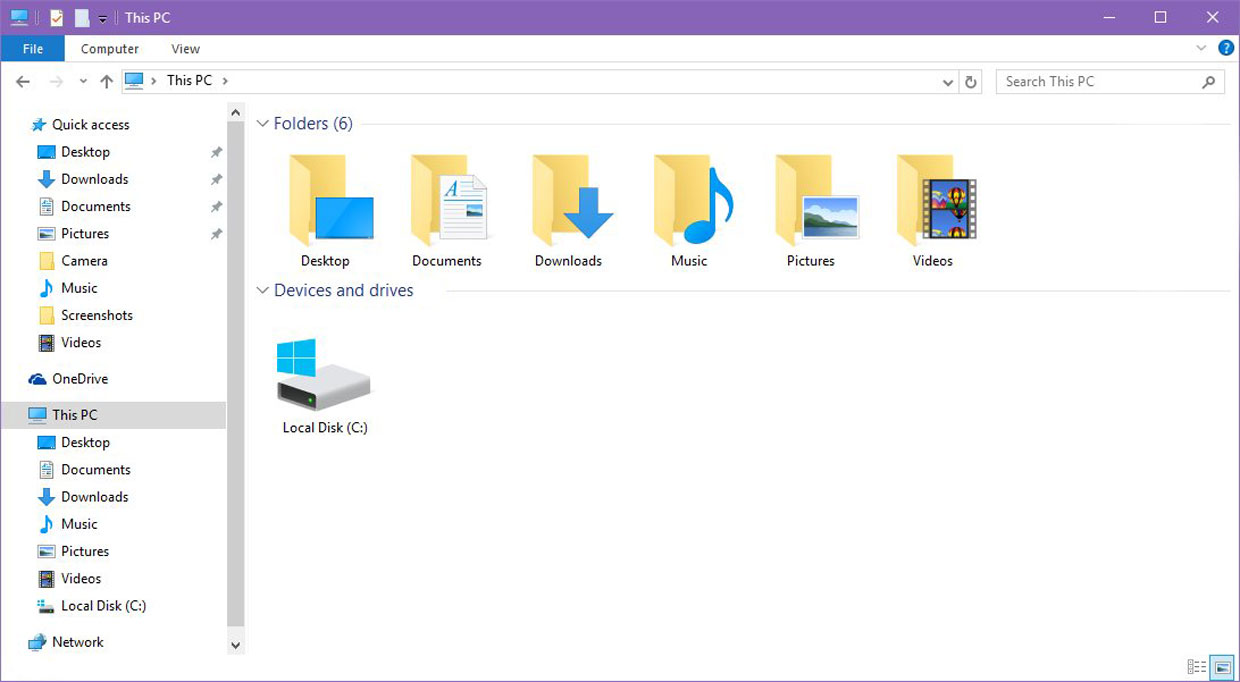
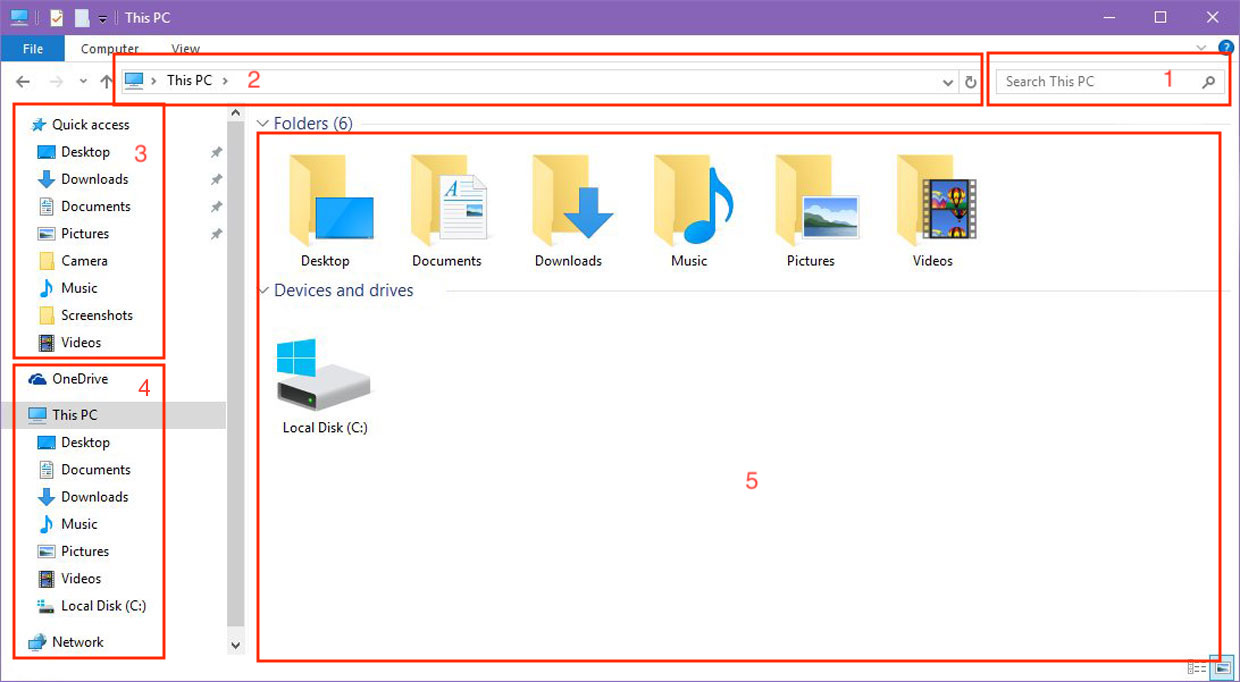
windows

diff --git a/windows/index.md b/windows/index.md
@@ -27,16 +27,20 @@ Pour prendre une capture d'écran, deux options s'offrent à vous :
 
 ### Manipulation de fichiers
 ![Icone explorateur de fichiers](/windows/icone_explorateur_fichiers.png)
-Les opérations décrites ici ne sont pas les plus courantes, mais elles constituent réellement la base de l'utilisation d'un ordinateur. À partir de l'explorateur de fichiers (image ci-haut), voici les principales opérations que vous pouvez faire.
+Les opérations décrites ici ne sont pas les plus courantes, mais elles constituent réellement la base de l'utilisation d'un ordinateur. À partir de l'explorateur de fichiers (image ci-haut), voici les principales opérations que vous pouvez faire. Les # font référence à l'image ci-dessous.
 1. Naviguer : 
-2. Rechercher : 
+  - #2 : Dossier actuel
+  - #3 : Favoris
+  - #4 : Arborescence complète de l'ordinateur
+  - #5 : Contenu du dossier actuel (ou résultats de la recherche)
+2. Rechercher : (voir #1 ci-dessous) Pour rechercher un fichier, une taille, une date, une extension tapez ce qui vous passe par la tête dans cette barre de recherche. 
 3. Créer : Pour créer un nouveau fichier dans l'explorateur de fichiers, ouvrez le menu contextuel dans un espace vide du dossier affiché.
 4. Supprimer : Pour supprimer un fichier, ouvrez le menu contextuel et cliquez sur "Supprimer" ou "Mettre dans la corbeil", selon le cas.
 5. Renommer : Pour renommer un fichier, ouvrez le menu contextuel et cliquez sur "Renommer"
 6. Déplacer : Pour déplacer un fichier, vous ouvrez le menu contextuel et cliquez sur "couper". Le fichier est maintenant dans le Presse-papier de Windows. Pour réellement le déplacer, déplacez-vous dans le dossier de votre choix, ouvrez le menu contextuel et cliquez sur "coller". Il disparaitra de son emplacement original.
 7. Copier : Pour copier un fichier, vous pouvez simplement ouvrir le menu contextuel et cliquer sur "copier". Le fichier est maintenant dans le Presse-papier de Windows. Pour réellement le copier, déplacez-vous dans le dossier de votre choix, ouvrez le menu contextuel et cliquez sur "coller".
 
-![Explorateur de fichiers](/windows/explorateur_fichiers.png)
+![Explorateur de fichiers](/windows/explorateur_fichiers.jpeg)
 
 ### Zip
 "Zipper" ou des fichiers fait référence à l'action de mettre un ou plusieurs fichiers / dossiers dans une archive et de la compresser pour que son poids (en octets) soit plus faible. Image grossière : le camion-poubelle qui ramasse vos ordures, les mets dans conteneur avec d'autres ordures et puis les compresse. Seule différence : on peut "dézipper" des fichiers, mais c'est plus difficile avec des ordures.
